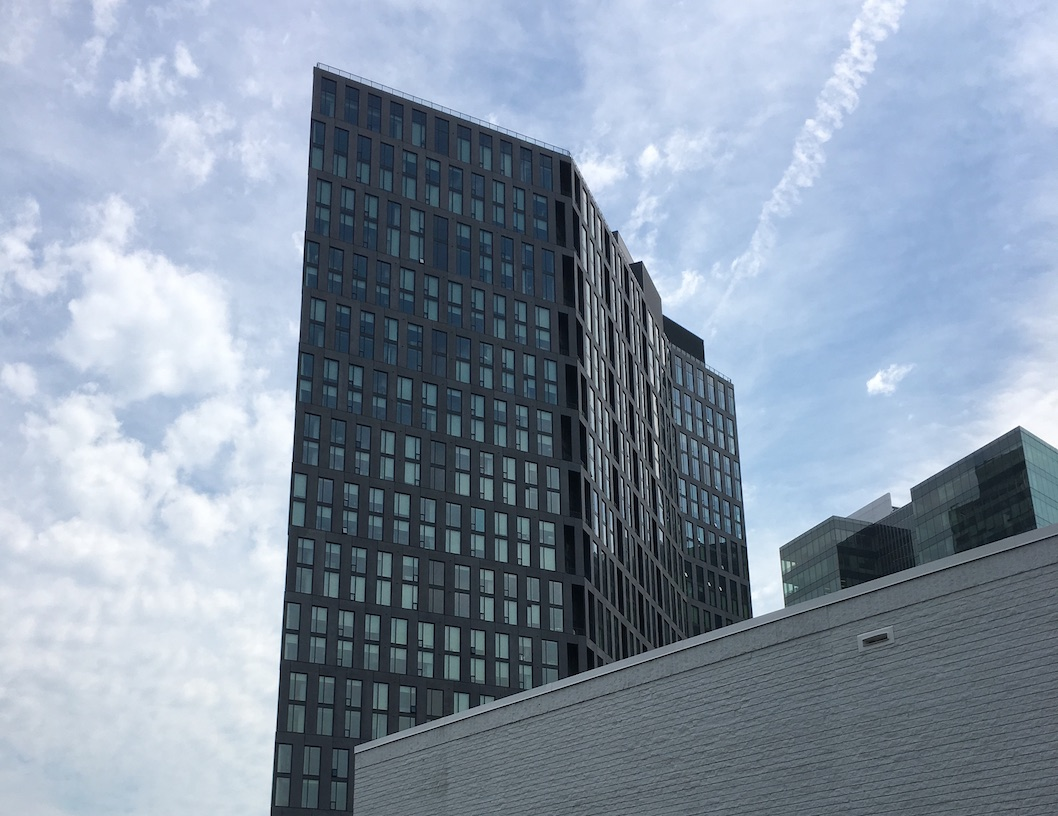
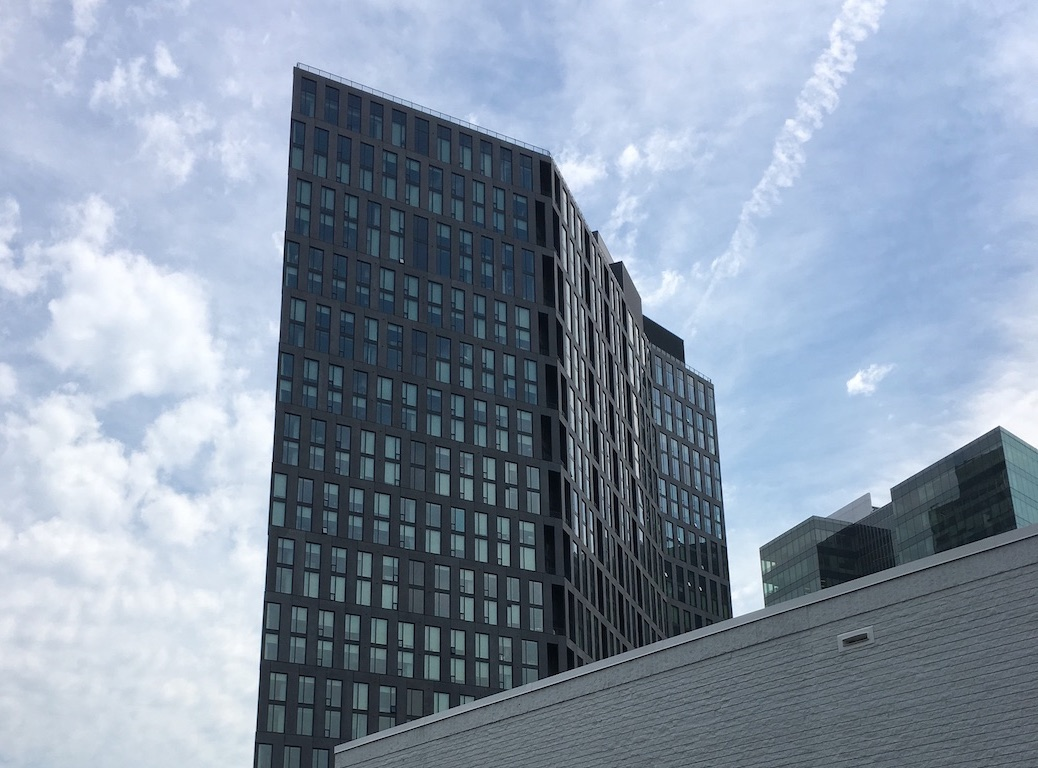
Update

diff --git a/aclark/root/templates/carousel.html b/aclark/root/templates/carousel.html
@@ -17,7 +17,7 @@
         </div>
       </div>
       <div class="carousel-item" 
-        style="background-image: url({% static 'aclarknet-about.jpg' %}); background-position: center; background-repeat: no-repeat">
+        style="background-image: url({% static 'aclarknet-about.jpg' %}); background-position: top; background-repeat: no-repeat">
         <div class="container">
           <div class="carousel-caption caption">
             <h1 class="display-1 text-light">Software.</h1>
